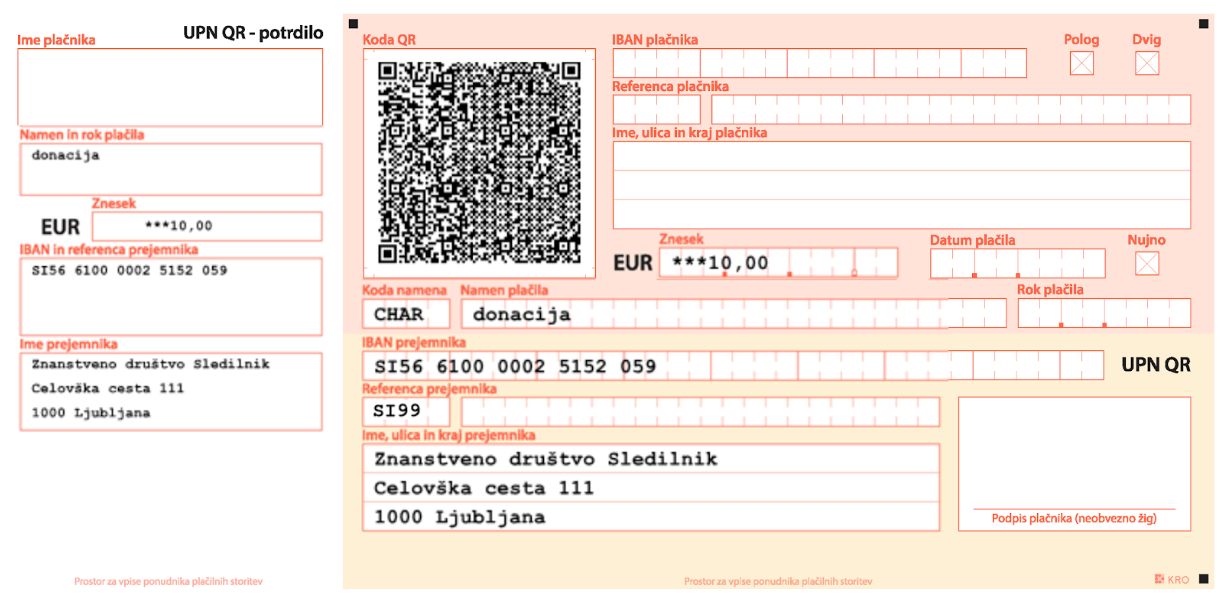
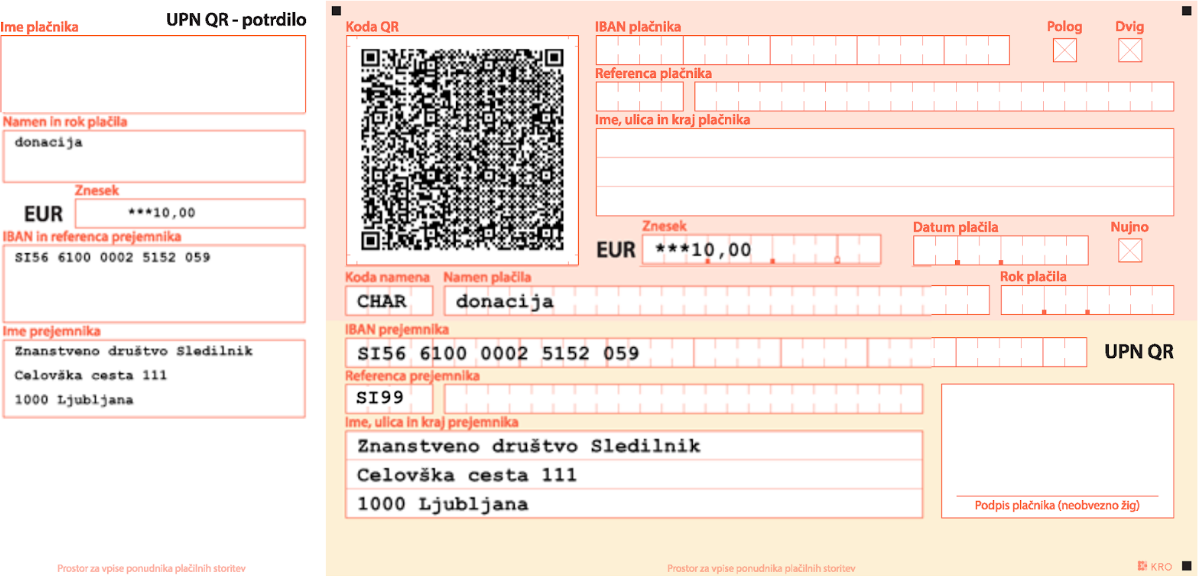
UPN, QR, cleanup

diff --git a/src/pages/DonationPage.vue b/src/pages/DonationPage.vue
@@ -2,10 +2,10 @@
   <div class="custom-container">
     <div class="static-page-wrapper">
       <h1>{{ $t("donation.title") }}</h1>
-      <div class="intro" v-html-md="$t('donation.intro')" />
+      <div v-html-md="$t('donation.intro')" />
 
       <h2>{{ $t("donation.monthly.title") }}</h2>
-      <div class="intro" v-html-md="$t('donation.monthly.description')" />
+      <div v-html-md="$t('donation.monthly.description')" />
       <div>
         <stripe-checkout
           ref="checkoutRef"
@@ -20,7 +20,8 @@
       </div>
 
       <h2>{{ $t("donation.banktransfer.title") }}</h2>
-      <div class="intro" v-html-md="$t('donation.banktransfer.description')" />
+      <img src="../assets/donate-qr.png" class="qr" float="right" />
+      <span v-html-md="$t('donation.banktransfer.description')" />
       <table>
         <tr>
           <td>{{ $t("donation.banktransfer.recipient") }}</td>
@@ -40,15 +41,14 @@
         </tr>
         <tr>
           <td>{{ $t("donation.banktransfer.bank") }}</td>
-          <td>Delavska hranilnica d.d.<br>Miklošičeva 5<br>Ljubljana<br>Slovenia</td>
+          <td>Delavska hranilnica d.d.<br>Miklošičeva 5<br>Ljubljana<br>Slovenija</td>
         </tr>
 
       </table>
 
-      <img src="../assets/donate-qr.png" class="qr" />
       <img src="../assets/donate-upn.png" class="upn" />
 
-      <div class="intro" v-html-md="$t('donation.outro')" />
+      <div v-html-md="$t('donation.outro')" />
     </div>
   </div>
 </template>
@@ -56,10 +56,6 @@
 <script>
 import { StripeCheckout } from '@vue-stripe/vue-stripe';
 import AgeGroupsFemales from '../components/tables/AgeGroupsFemales.vue';
-
-console.log(process.env.VUE_APP_CONTENT_ENDPOINT_BASE)
-console.log(process.env.VUE_APP_DONATEPK)
-console.log(process.env.VUE_APP_LOCALE_CONTEXT)
 
 export default {
   name: 'DonationPage',
@@ -92,8 +88,16 @@ export default {
 <!-- Add "scoped" attribute to limit CSS to this component only -->
 <style lang="scss">
 
-.upn {
-  max-width: 100%;
+img {
+  &.upn {
+    max-width: 100%;
+    padding: 10px 0px;
+  }
+  &.qr {
+    max-width: 100%;
+    float: right;
+    padding: 0 0 20px 20px, 
+  }
 }
 
 </style>

diff --git a/src/pages/DonationThanksPage.vue b/src/pages/DonationThanksPage.vue
@@ -2,7 +2,8 @@
   <div class="custom-container">
     <div class="static-page-wrapper">
       <h1>{{ $t("donation.title") }}</h1>
-      {{ $t("donation.thankyou") }}
+
+      <div v-html-md="$t('donation.thankyou')" />
     </div>
   </div>
 </template>
